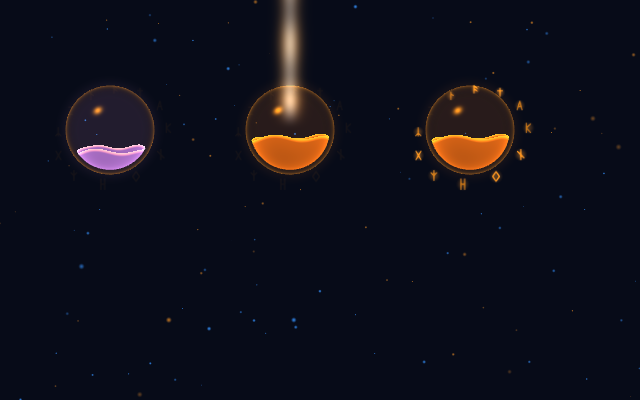
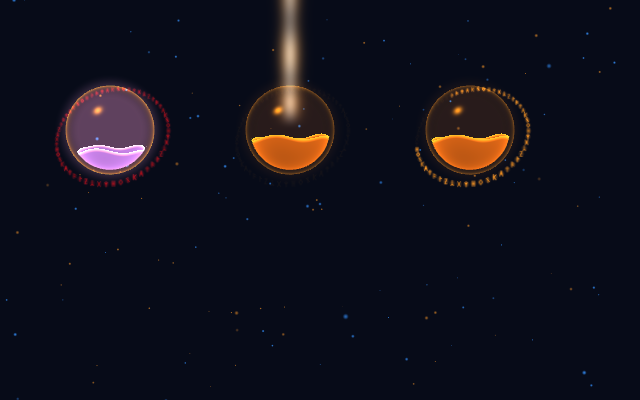
feat(orbe): anillo de 56 runas (1 runa = 15 OD) en 3D y en el orbe plano

diff --git a/orb.js b/orb.js
@@ -2,6 +2,7 @@
 // drawn inside each card's slot (scissor/viewport per slot, a single GL context).
 import * as THREE from 'https://cdn.jsdelivr.net/npm/three@0.160.0/build/three.module.js';
 import { wrapY, orientationTilt, pointerTilt } from './motion.js';
+import { RUNE_COUNT, RUNE_STROKES } from './runes.js';
 
 const GOLD = new THREE.Color('#e8b85a');
 const SKY = new THREE.Color('#7cc8ff');
@@ -60,11 +61,17 @@ const LIQUID_FS = `
     gl_FragColor = vec4(col, 1.0);
   }`;
 const SHELL_FS = `
-  uniform vec3 uGold; uniform float uGlow; uniform vec3 uLightDir;
+  uniform vec3 uGold; uniform float uGlow, uLight; uniform vec3 uLightDir;
   varying vec3 vNormal; varying vec3 vView;
   void main() {
     float fres = pow(1.0 - abs(dot(normalize(vNormal), normalize(vView))), 2.5);
     float spec = pow(max(dot(reflect(-normalize(vView), normalize(vNormal)), normalize(uLightDir)), 0.0), 40.0);
+    if (uLight > 0.5) {
+      // Light theme (normal blending): colour stays the accent, intensity goes into alpha, the highlight is white.
+      float a = clamp(fres * (0.5 + 0.35 * uGlow) + spec * 0.9, 0.0, 1.0);
+      gl_FragColor = vec4(mix(uGold, vec3(1.0), clamp(spec * 1.6, 0.0, 1.0)), a);
+      return;
+    }
     gl_FragColor = vec4(uGold * (fres * (0.8 + uGlow) + spec * 1.2), fres * 0.9 + spec);
   }`;
 const HALO_VS = `varying vec2 vUv; void main(){ vUv = uv; gl_Position = projectionMatrix * modelViewMatrix * vec4(position,1.0); }`;
@@ -85,15 +92,18 @@ const RUNE_VS = `
     gl_Position = projectionMatrix * (center + vec4(position.xy, 0.0, 0.0)); // billboard
   }`;
 const RUNE_FS = `
-  uniform sampler2D uAtlas; uniform float uLit, uFull, uFade, uTime; uniform vec3 uGold;
+  uniform sampler2D uAtlas; uniform float uLit, uFull, uFade, uTime, uLight; uniform vec3 uGold, uUrgent;
   varying vec2 vUv; varying float vIndex;
   void main() {
-    float glyph = texture2D(uAtlas, vec2((vIndex + vUv.x) / 12.0, vUv.y)).a;
+    float glyph = texture2D(uAtlas, vec2((mod(vIndex, 12.0) + vUv.x) / 12.0, vUv.y)).a;
     float on = max(uFull, step(vIndex + 0.5, uLit));
     float newest = (1.0 - uFull) * step(uLit - 0.5, vIndex) * step(vIndex, uLit - 0.5);
     float flicker = 0.85 + 0.15 * sin(uTime * 3.0 + vIndex * 1.7);
     float glow = smoothstep(0.5, 0.0, length(vUv - 0.5)) * on * 0.35;
-    vec3 col = uGold * (on * (1.25 + newest * 0.6) * flicker + (1.0 - on) * 0.22);
+    vec3 tone = mix(uGold, uUrgent, uFull);
+    float pulse = uFull > 0.5 ? 0.75 + 0.25 * sin(uTime * 4.0) : 1.0;
+    vec3 col = tone * (on * (1.25 + newest * 0.6) * flicker + (1.0 - on) * 0.22) * pulse;
+    col *= mix(1.0, 0.6, uLight * (1.0 - on));
     float a = (glyph * (on * 0.95 + (1.0 - on) * 0.35) + glow) * uFade;
     if (a < 0.01) discard;
     gl_FragColor = vec4(col, a);
@@ -120,14 +130,7 @@ function runeAtlas() {
   const c = document.createElement('canvas'); c.width = 64 * 12; c.height = 64;
   const g = c.getContext('2d');
   g.strokeStyle = '#fff'; g.lineWidth = 5; g.lineCap = 'round'; g.lineJoin = 'round';
-  const strokes = [
-    [[32,10,32,54],[32,20,46,30]], [[24,10,24,54],[24,14,42,26],[24,30,42,42]], [[32,10,32,54],[18,24,46,24]],
-    [[20,54,32,10],[32,10,44,54],[24,38,40,38]], [[22,10,22,54],[22,32,42,14],[22,32,42,54]], [[32,10,32,54],[18,18,46,46]],
-    [[18,32,32,12],[32,12,46,32],[46,32,32,52],[32,52,18,32]], [[24,10,24,54],[40,10,40,54],[24,32,40,32]],
-    [[32,10,32,54],[20,20,32,32],[44,20,32,32]], [[20,12,44,52],[44,12,20,52]], [[32,10,32,54],[32,40,46,52],[32,40,18,52]],
-    [[22,12,42,12],[42,12,22,52],[22,52,42,52]],
-  ];
-  strokes.forEach((lines, i) => {
+  RUNE_STROKES.forEach((lines, i) => {
     g.beginPath();
     for (const [x1, y1, x2, y2] of lines) { g.moveTo(i * 64 + x1, y1); g.lineTo(i * 64 + x2, y2); }
     g.stroke();
@@ -178,7 +181,7 @@ const CLOUD_VS = `
     gl_Position = projectionMatrix * viewMatrix * wp;
   }`;
 const CLOUD_FS = `
-  uniform float uTime; uniform vec3 uSky; varying vec2 vUv; varying float vSeed;
+  uniform float uTime, uLight; uniform vec3 uSky; varying vec2 vUv; varying float vSeed;
   float h(vec2 p) { return fract(sin(dot(p, vec2(127.1, 311.7))) * 43758.5453); }
   float n(vec2 p) { vec2 i = floor(p), f = fract(p); f = f * f * (3.0 - 2.0 * f);
     return mix(mix(h(i), h(i + vec2(1, 0)), f.x), mix(h(i + vec2(0, 1)), h(i + vec2(1, 1)), f.x), f.y); }
@@ -186,7 +189,7 @@ const CLOUD_FS = `
     vec2 p = vUv * 3.0 + vSeed * 7.0 + vec2(uTime * 0.01, 0.0);
     float v = n(p) * 0.5 + n(p * 2.0) * 0.25 + n(p * 4.0) * 0.125;
     float edge = smoothstep(0.5, 0.15, length(vUv - 0.5));
-    gl_FragColor = vec4(uSky, smoothstep(0.35, 0.8, v) * edge * 0.28);
+    gl_FragColor = vec4(uSky, smoothstep(0.35, 0.8, v) * edge * mix(0.28, 0.1, uLight));
   }`;
 const BEAM_VS = `varying vec2 vUv; void main(){ vUv = uv; gl_Position = projectionMatrix * modelViewMatrix * vec4(position, 1.0); }`;
 const BEAM_FS = `
@@ -237,7 +240,7 @@ export function createScene(canvas, { particles = 300, feathers = 20, clouds = 5
   bgScene.add(new THREE.Points(pGeo, pMat));
 
   // Far layer: soft ether clouds. Near layer: golden Daeva feathers falling and turning.
-  const cloudU = { uTime: { value: 0 }, uCamY: { value: 0 }, uSky: { value: SKY } };
+  const cloudU = { uTime: { value: 0 }, uCamY: { value: 0 }, uSky: { value: SKY }, uLight: { value: 0 } };
   const cloudMat = new THREE.ShaderMaterial({ vertexShader: CLOUD_VS, fragmentShader: CLOUD_FS, uniforms: cloudU,
     transparent: true, depthWrite: false, blending: THREE.AdditiveBlending });
   // Clouds sit around z −9 (view ≈ ±11 units tall there); each centre wraps within ±16 of the
@@ -295,7 +298,7 @@ export function createScene(canvas, { particles = 300, feathers = 20, clouds = 5
     vertexShader: LIQUID_VS, fragmentShader: LIQUID_FS, uniforms: liquidU,
     side: THREE.DoubleSide,
   }));
-  const shellU = { uGold: { value: GOLD }, uGlow: { value: 0 }, uLightDir: { value: new THREE.Vector3(-0.5, 0.8, 0.6) } };
+  const shellU = { uGold: { value: GOLD }, uGlow: { value: 0 }, uLight: { value: 0 }, uLightDir: { value: new THREE.Vector3(-0.5, 0.8, 0.6) } };
   const shell = new THREE.Mesh(new THREE.SphereGeometry(1.0, 64, 48), new THREE.ShaderMaterial({
     vertexShader: LIQUID_VS, fragmentShader: SHELL_FS, uniforms: shellU,
     transparent: true, depthWrite: false, blending: THREE.AdditiveBlending,
@@ -307,17 +310,17 @@ export function createScene(canvas, { particles = 300, feathers = 20, clouds = 5
   }));
   halo.position.z = -1.2;
 
-  // Rune ring: 12 billboards on a tilted, slowly spinning circle (radius 1.3).
+  // Rune ring: 56 billboards on a tilted, slowly spinning circle (radius 1.3).
   const RING_R = 1.3;
-  const runeU = { uAtlas: { value: runeAtlas() }, uLit: { value: 0 }, uFull: { value: 0 }, uFade: { value: 1 }, uTime: { value: 0 }, uGold: { value: GOLD } };
-  const runes = new THREE.InstancedMesh(new THREE.PlaneGeometry(0.3, 0.3), new THREE.ShaderMaterial({
+  const runeU = { uAtlas: { value: runeAtlas() }, uLit: { value: 0 }, uFull: { value: 0 }, uFade: { value: 1 }, uTime: { value: 0 }, uGold: { value: GOLD }, uUrgent: { value: URGENT }, uLight: { value: 0 } };
+  const runes = new THREE.InstancedMesh(new THREE.PlaneGeometry(0.16, 0.16), new THREE.ShaderMaterial({
     vertexShader: RUNE_VS, fragmentShader: RUNE_FS, uniforms: runeU,
     transparent: true, depthWrite: false, blending: THREE.AdditiveBlending,
-  }), 12);
-  const idx = new Float32Array(12);
+  }), RUNE_COUNT);
+  const idx = new Float32Array(RUNE_COUNT);
   const m = new THREE.Matrix4();
-  const runeAngle = i => -Math.PI / 2 + i * (Math.PI * 2 / 12);
-  for (let i = 0; i < 12; i++) {
+  const runeAngle = i => -Math.PI / 2 + i * (Math.PI * 2 / RUNE_COUNT);
+  for (let i = 0; i < RUNE_COUNT; i++) {
     idx[i] = i;
     m.makeTranslation(Math.cos(runeAngle(i)) * RING_R, 0, Math.sin(runeAngle(i)) * RING_R);
     runes.setMatrixAt(i, m);
@@ -326,7 +329,7 @@ export function createScene(canvas, { particles = 300, feathers = 20, clouds = 5
   // Burst: 8 sparks per rune flying into the orb.
   const sparks = 96, start = new Float32Array(sparks * 3), sseed = new Float32Array(sparks);
   for (let i = 0; i < sparks; i++) {
-    const a = runeAngle(i % 12) + (Math.random() - 0.5) * 0.3;
+    const a = runeAngle(i % RUNE_COUNT) + (Math.random() - 0.5) * 0.3;
     const r = RING_R + (Math.random() - 0.5) * 0.15;
     start.set([Math.cos(a) * r, (Math.random() - 0.5) * 0.15, Math.sin(a) * r], i * 3);
     sseed[i] = Math.random();
@@ -447,10 +450,10 @@ export function createScene(canvas, { particles = 300, feathers = 20, clouds = 5
       liquid.rotation.y = t * 0.2;
       runeU.uTime.value = t;
       runeU.uFull.value = o.state === 'full' ? 1 : 0;
-      runeU.uLit.value = o.tick == null ? 0 : Math.min(12, Math.max(0, Math.floor(o.tick * 12)));
-      // During a burst the old runes fade out and sparks fly in; the ring refills from zero.
+      runeU.uLit.value = Math.min(RUNE_COUNT, Math.max(0, o.runes | 0));
+      // Sparks fly into the orb on a recharge; the ring itself stays put.
       burstU.uT.value = since < 0.9 ? since / 0.9 : 0;
-      runeU.uFade.value = since < 0.9 ? 0.3 + 0.7 * (since / 0.9) : 1;
+      runeU.uFade.value = 1;
       renderer.render(orbScene, orbCam);
     }
   }
@@ -473,6 +476,7 @@ export function createScene(canvas, { particles = 300, feathers = 20, clouds = 5
     setPalette({ primary, secondary, urgent, light }) {
       GOLD.set(primary); SKY.set(secondary); URGENT.set(urgent || primary);
       lightMode = !!light;
+      runeU.uLight.value = lightMode ? 1 : 0; shellU.uLight.value = lightMode ? 1 : 0; cloudU.uLight.value = lightMode ? 1 : 0;
       for (const mat of glowMats) { mat.blending = lightMode ? THREE.NormalBlending : THREE.AdditiveBlending; mat.needsUpdate = true; }
       const attr = pGeo.getAttribute('tint');
       for (let i = 0; i < particles; i++) { const c = isSky[i] ? SKY : GOLD; attr.setXYZ(i, c.r, c.g, c.b); }

diff --git a/index.html b/index.html
@@ -127,6 +127,15 @@
   .card { display: grid; grid-template-columns: 1fr; justify-items: center; gap: 0; position: relative; }
   .orb-col { display: flex; flex-direction: column; align-items: center; gap: 2px; margin-bottom: 8px; z-index: 2; }
   .orb-slot { width: 150px; height: 150px; position: relative; }
+  /* Rune ring of the flat orb: 56 runes, lit ones in the faction accent, crimson at cap. No animation. */
+  .rune-ring { position: absolute; inset: 0; width: 100%; height: 100%; display: none; pointer-events: none; }
+  body.flat .rune-ring { display: block; }
+  .rune { fill: none; stroke: var(--track); stroke-width: 1.1; stroke-linecap: round; stroke-linejoin: round; }
+  .rune.on { stroke: var(--gold-bright); }
+  .rune-ring.full .rune.on { stroke: var(--urgent); }
+  .rune-ring.dots .rune { fill: var(--track); stroke: none; }
+  .rune-ring.dots .rune.on { fill: var(--gold-bright); }
+  .rune-ring.dots.full .rune.on { fill: var(--urgent); }
   .tick-left { margin: 0; font-size: .8rem; font-weight: 600; color: var(--sky); font-variant-numeric: tabular-nums;
     letter-spacing: .03em; text-shadow: 0 0 8px var(--glow); white-space: nowrap; }
   .tick-left.full { color: var(--gold-bright); text-shadow: 0 0 8px var(--glow); }
@@ -922,6 +931,7 @@
   const sound = createSound();
   import { makeCode, normalizeCode, hashCode, roomName, parseLegionName, parseProfile, legionOf, sameLegion, legionTitle, proofFor, pickLegion, legionKey } from './legion.js';
   import { formatClock, detectGains, rollValue, becameFull, sceneOptions } from './motion.js';
+  import { litRunes, buildRuneRing } from './runes.js';
 
   // Data comes only from db snapshots. Writes happen only after a user action.
   const state = { characters: [], memberData: new Map(), stats: null, tasks: DEFAULT_TASKS, progress: new Map(), cpHist: new Map(), hiddenMembers: 0, others: new Map(), names: {}, schedule: null, presets: [], events: [], timers: [], calendar: [], wall: [], legions: new Map(), prefs: { quietStart: '00:00', quietEnd: '08:00', favEvents: [] } };
@@ -1249,7 +1259,8 @@
 
     card.append(el('div', { class: 'orb-col' },
       el('div', { class: 'orb-slot', 'data-orb': row.id, role: 'img', 'aria-label': `${row.percent}% de energía` },
-        el('div', { class: 'orb-flat', style: `--fill:${row.percent}%` })),
+        el('div', { class: 'orb-flat', style: `--fill:${row.percent}%` }),
+        buildRuneRing(document, litRunes(row.energy), { full: row.isFull })),
       el('p', { class: 'tick-left', 'data-full': row.isFull ? '1' : null })));
 
     const panel = el('div', { class: 'panel' });
@@ -1769,7 +1780,6 @@
       p.classList.toggle('missing', !full && anchor === null);
       p.textContent = full ? 'Lleno' : anchor === null ? 'Falta la hora de recarga' : `+15 en ${formatClock(left)}`;
     }
-    for (const o of orbList) o.tick = left === null ? null : 1 - left / TICK_MS;
     $('clock').classList.toggle('missing', anchor === null);
     if (anchor === null) { $('next-tick').textContent = 'Falta la hora de recarga'; return; }
     $('next-tick').textContent = formatClock(left);
@@ -1836,7 +1846,7 @@
     $('legion').replaceChildren(...groups);
     $('chars-bar').hidden = ui.noDb || !ui.loaded || (!view.rows.length && $('add-btn').hidden);
     orbList = [...view.rows, ...otherRows].map(r => ({
-      id: r.id, el: document.querySelector(`[data-orb="${CSS.escape(r.id)}"]`), tick: null,
+      id: r.id, el: document.querySelector(`[data-orb="${CSS.escape(r.id)}"]`), runes: litRunes(r.energy),
       percent: r.percent, color: r.color, state: r.isFull ? 'full' : r.nearFull ? 'near' : 'normal',
     }));
     paintClock(); // fills the new cards' timers and the orbs' rune progress

diff --git a/runes.js b/runes.js
@@ -1,0 +1,55 @@
+// The energy rune ring: 56 original runes around each orb, one per +15 OD (840 = 56 x 15).
+// Shared by the 3D orb (orb.js) and the flat orb / small friend orbs (SVG).
+import { MAX, REGEN } from './energy.js';
+
+export const RUNE_COUNT = MAX / REGEN; // 56
+
+export function litRunes(energy) {
+  const e = Number(energy);
+  if (!Number.isFinite(e)) return 0;
+  return Math.max(0, Math.min(RUNE_COUNT, Math.floor(e / REGEN)));
+}
+
+// 12 glyphs drawn for Odyle (not taken from the game): strokes [x1, y1, x2, y2] on a 64x64 grid.
+export const RUNE_STROKES = [
+  [[32, 10, 32, 54], [32, 20, 46, 30]], [[24, 10, 24, 54], [24, 14, 42, 26], [24, 30, 42, 42]], [[32, 10, 32, 54], [18, 24, 46, 24]],
+  [[20, 54, 32, 10], [32, 10, 44, 54], [24, 38, 40, 38]], [[22, 10, 22, 54], [22, 32, 42, 14], [22, 32, 42, 54]], [[32, 10, 32, 54], [18, 18, 46, 46]],
+  [[18, 32, 32, 12], [32, 12, 46, 32], [46, 32, 32, 52], [32, 52, 18, 32]], [[24, 10, 24, 54], [40, 10, 40, 54], [24, 32, 40, 32]],
+  [[32, 10, 32, 54], [20, 20, 32, 32], [44, 20, 32, 32]], [[20, 12, 44, 52], [44, 12, 20, 52]], [[32, 10, 32, 54], [32, 40, 46, 52], [32, 40, 18, 52]],
+  [[22, 12, 42, 12], [42, 12, 22, 52], [22, 52, 42, 52]],
+];
+export const glyphFor = (i) => RUNE_STROKES[i % RUNE_STROKES.length];
+
+// Position of rune i on a circle of radius r around (c, c): 0 at the top, clockwise.
+export function runePoint(i, r, c) {
+  const angle = -Math.PI / 2 + i * (2 * Math.PI / RUNE_COUNT);
+  return { x: c + Math.cos(angle) * r, y: c + Math.sin(angle) * r, angle };
+}
+
+const SVG_NS = 'http://www.w3.org/2000/svg';
+const n2 = (v) => v.toFixed(2);
+
+// SVG ring for the flat orb (no WebGL / reduced motion) and, as dots, for small friend orbs.
+export function buildRuneRing(doc, lit, { size = 150, glyphs = true, full = false } = {}) {
+  const svg = doc.createElementNS(SVG_NS, 'svg');
+  svg.setAttribute('viewBox', `0 0 ${size} ${size}`);
+  svg.setAttribute('class', 'rune-ring' + (glyphs ? '' : ' dots') + (full ? ' full' : ''));
+  svg.setAttribute('aria-hidden', 'true');
+  const c = size / 2, r = size / 2 - (glyphs ? 5 : 2.5);
+  const scale = 6 / 64; // each glyph fits a 6-unit box
+  for (let i = 0; i < RUNE_COUNT; i++) {
+    const p = runePoint(i, r, c);
+    let node;
+    if (glyphs) {
+      node = doc.createElementNS(SVG_NS, 'path');
+      node.setAttribute('d', glyphFor(i).map(([x1, y1, x2, y2]) =>
+        `M${n2(p.x + (x1 - 32) * scale)} ${n2(p.y + (y1 - 32) * scale)}L${n2(p.x + (x2 - 32) * scale)} ${n2(p.y + (y2 - 32) * scale)}`).join(''));
+    } else {
+      node = doc.createElementNS(SVG_NS, 'circle');
+      node.setAttribute('cx', n2(p.x)); node.setAttribute('cy', n2(p.y)); node.setAttribute('r', '1.1');
+    }
+    node.setAttribute('class', i < lit ? 'rune on' : 'rune');
+    svg.append(node);
+  }
+  return svg;
+}

diff --git a/runes.test.js b/runes.test.js
@@ -1,0 +1,47 @@
+// runes.test.js
+import { test } from 'node:test';
+import assert from 'node:assert/strict';
+import { RUNE_COUNT, litRunes, RUNE_STROKES, glyphFor, runePoint, buildRuneRing } from './runes.js';
+
+test('56 runas: una por cada 15 OD hasta 840', () => {
+  assert.equal(RUNE_COUNT, 56);
+  assert.equal(litRunes(0), 0);
+  assert.equal(litRunes(14), 0);
+  assert.equal(litRunes(15), 1);
+  assert.equal(litRunes(839), 55);
+  assert.equal(litRunes(840), 56);
+  assert.equal(litRunes(900), 56);
+  assert.equal(litRunes(-30), 0);
+  assert.equal(litRunes(NaN), 0);
+  assert.equal(litRunes('300'), 20);
+});
+test('12 glifos propios que se repiten alrededor del anillo', () => {
+  assert.equal(RUNE_STROKES.length, 12);
+  for (const g of RUNE_STROKES) for (const s of g) { assert.equal(s.length, 4); for (const v of s) assert.ok(v >= 0 && v <= 64); }
+  assert.equal(glyphFor(0), RUNE_STROKES[0]);
+  assert.equal(glyphFor(13), RUNE_STROKES[1]);
+});
+test('la runa 0 esta arriba y la 14 a la derecha (sentido horario)', () => {
+  const top = runePoint(0, 10, 50);
+  assert.ok(Math.abs(top.x - 50) < 1e-9 && Math.abs(top.y - 40) < 1e-9);
+  const right = runePoint(14, 10, 50);
+  assert.ok(Math.abs(right.x - 60) < 1e-9 && Math.abs(right.y - 50) < 1e-9);
+});
+
+function fakeDoc() {
+  const make = (tag) => ({ tag, attrs: {}, children: [], setAttribute(k, v) { this.attrs[k] = String(v); }, append(...n) { this.children.push(...n); } });
+  return { createElementNS: (_ns, tag) => make(tag) };
+}
+test('buildRuneRing: 56 elementos, los encendidos con la clase on', () => {
+  const svg = buildRuneRing(fakeDoc(), 20);
+  assert.equal(svg.tag, 'svg');
+  assert.equal(svg.attrs['aria-hidden'], 'true');
+  assert.equal(svg.children.length, 56);
+  assert.equal(svg.children.filter((c) => c.attrs.class === 'rune on').length, 20);
+  assert.ok(svg.children.every((c) => c.tag === 'path' && /^M[\d.]+ [\d.]+L/.test(c.attrs.d)));
+});
+test('buildRuneRing en modo puntos (orbes pequenos) y al tope', () => {
+  const svg = buildRuneRing(fakeDoc(), 56, { size: 44, glyphs: false, full: true });
+  assert.equal(svg.attrs.class, 'rune-ring dots full');
+  assert.ok(svg.children.every((c) => c.tag === 'circle' && c.attrs.class === 'rune on'));
+});

diff --git a/dev/orb-smoke.html b/dev/orb-smoke.html
@@ -10,9 +10,9 @@ const scene = createScene(document.getElementById('c'), { particles: 200, feathe
 window.__scene = !!scene;
 if (scene) {
   scene.setOrbs([
-    { id: 'a', el: document.getElementById('s1'), percent: 26, color: '#b79cff', state: 'normal', tick: null },
-    { id: 'b', el: document.getElementById('s2'), percent: 41, color: '#e0924a', state: 'normal', tick: 0 },
-    { id: 'c', el: document.getElementById('s3'), percent: 41, color: '#e0924a', state: 'normal', tick: 0.95 },
+    { id: 'a', el: document.getElementById('s1'), percent: 26, color: '#b79cff', state: 'full', runes: 56 },
+    { id: 'b', el: document.getElementById('s2'), percent: 41, color: '#e0924a', state: 'normal', runes: 0 },
+    { id: 'c', el: document.getElementById('s3'), percent: 41, color: '#e0924a', state: 'normal', runes: 44 },
   ]);
   scene.start();
   window.__scn = scene;

diff --git a/motion.test.js b/motion.test.js
@@ -38,16 +38,7 @@ test('detectGains: cambio de hora de recarga no cuenta', () => {
   assert.deepEqual(detectGains(p2, [{ id: 'a', energy: 240, recordedAt: 1, anchorMs: 100 }]), [{ id: 'a', gain: 15 }]);
 });
 
-import { RUNES, runesLit, becameFull } from './motion.js';
-const TICK = 10_800_000;
-test('runesLit: una runa cada 15 min', () => {
-  assert.equal(RUNES, 12);
-  assert.equal(runesLit(TICK, TICK), 0);
-  assert.equal(runesLit(TICK - 15 * 60_000, TICK), 1);
-  assert.equal(runesLit(1000, TICK), 11);
-  assert.equal(runesLit(0, TICK), 12);
-  assert.equal(runesLit(TICK * 2, TICK), 0);
-});
+import { becameFull } from './motion.js';
 test('becameFull: solo al cruzar a 840', () => {
   const p = new Map([['a', { energy: 830 }], ['b', { energy: 840 }]]);
   assert.deepEqual(becameFull(p, [{ id: 'a', energy: 840 }], 840), ['a']);

diff --git a/motion.js b/motion.js
@@ -30,13 +30,6 @@ export function rollValue(from, to, t) {
   return Math.round(from + (to - from) * (1 - (1 - k) ** 3));
 }
 
-// The rune ring: one rune lights per twelfth of the recharge interval (15 min of 3 h).
-export const RUNES = 12;
-export function runesLit(msLeft, tickMs) {
-  const lit = Math.floor((tickMs - msLeft) / (tickMs / RUNES));
-  return Math.min(RUNES, Math.max(0, lit));
-}
-
 // Characters that crossed into full since the previous render (not ones already full or new).
 export function becameFull(prev, rows, max) {
   return rows.filter(r => { const p = prev.get(r.id); return p && p.energy < max && r.energy >= max; }).map(r => r.id);
